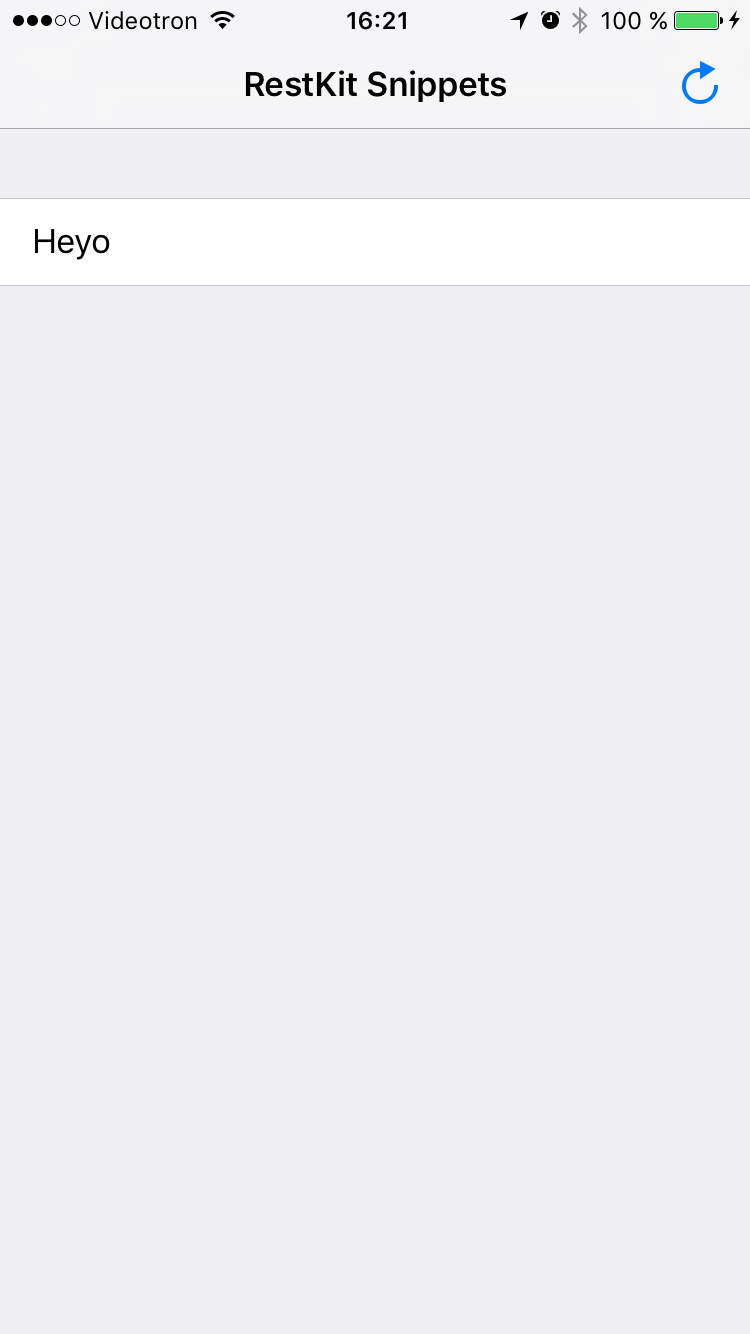
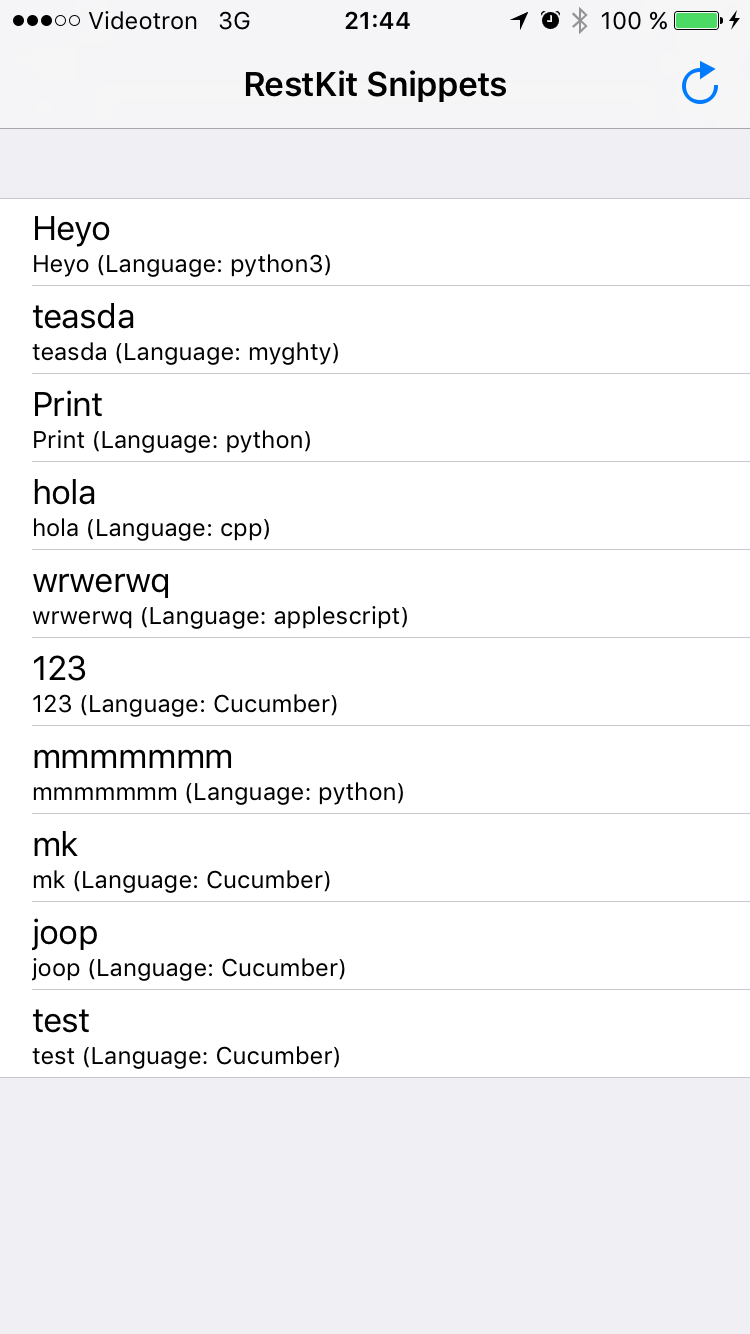
:rocket: Multiple items mapped to table view

diff --git a/RKSnippet/AppDelegate.m b/RKSnippet/AppDelegate.m
@@ -17,36 +17,54 @@
 {
     RKLogConfigureByName("RestKit/Network*", RKLogLevelTrace);
     RKLogConfigureByName("RestKit/ObjectMapping", RKLogLevelTrace);
-
+    
     //let AFNetworking manage the activity indicator
     [AFRKNetworkActivityIndicatorManager sharedManager].enabled = YES;
-
+    
     // Initialize HTTPClient
     NSURL *baseURL = [NSURL URLWithString:@"https://restframework.herokuapp.com"];
     AFRKHTTPClient* client = [[AFRKHTTPClient alloc] initWithBaseURL:baseURL];
-
+    
     //we want to work with JSON-Data
     [client setDefaultHeader:@"Accept" value:RKMIMETypeJSON];
-
+    
     // Initialize RestKit
     RKObjectManager *objectManager = [[RKObjectManager alloc] initWithHTTPClient:client];
-
+    
     RKObjectMapping *snippetMapping = [RKObjectMapping mappingForClass:[RKSnippet class]];
-    [snippetMapping addAttributeMappingsFromDictionary:@{
-                                                         @"url" : @"url",
-                                                         @"highlight" : @"highlight",
-                                                         @"owner" : @"owner",
-                                                         @"title" : @"title",
-                                                         @"code" : @"code",
-                                                         @"linenos" : @"linenos",
-                                                         @"language" : @"language",
-                                                         @"style" : @"style",
-                                                         }];
-
+    [snippetMapping addAttributeMappingsFromArray:
+     @[
+       @"url",
+       @"highlight",
+       @"owner",
+       @"title",
+       @"code",
+       @"linenos",
+       @"language",
+       @"style",
+       ]];
+    
     // Register our mappings with the provider using a response descriptor
-    RKResponseDescriptor *responseDescriptor = [RKResponseDescriptor responseDescriptorWithMapping:snippetMapping method:RKRequestMethodGET pathPattern:@"/snippets/:id/" keyPath:nil statusCodes:[NSIndexSet indexSetWithIndex:200]];
-    [objectManager addResponseDescriptor:responseDescriptor];
+    RKResponseDescriptor *listResponseDescriptor = [RKResponseDescriptor
+                                                responseDescriptorWithMapping:snippetMapping
+                                                method:RKRequestMethodGET
+                                                pathPattern:@"/snippets/"
+                                                keyPath:@"results"
+                                                statusCodes:RKStatusCodeIndexSetForClass(RKStatusCodeClassSuccessful)
+                                                ];
 
+    [objectManager addResponseDescriptor:listResponseDescriptor];
+    
+    RKResponseDescriptor *itemResponseDescriptor = [RKResponseDescriptor
+                                                    responseDescriptorWithMapping:snippetMapping
+                                                    method:RKRequestMethodAny
+                                                    pathPattern:@"/snippets/:id"
+                                                    keyPath:nil
+                                                    statusCodes:RKStatusCodeIndexSetForClass(RKStatusCodeClassSuccessful)
+                                                    ];
+    
+    [objectManager addResponseDescriptor:itemResponseDescriptor];
+    
     return YES;
 }
 

diff --git a/RKSnippet/RKSnippetViewController.m b/RKSnippet/RKSnippetViewController.m
@@ -1,6 +1,7 @@
 #import <Foundation/Foundation.h>
 #import "RKSnippetViewController.h"
 #import "RKSnippet.h"
+#import "RKLog.h"
 
 @interface RKSnippetViewController (Private)
 - (void)loadData;
@@ -8,17 +9,27 @@
 
 @implementation RKSnippetViewController
 
-- (void)loadSnippet
+- (void)loadSnippets
 {
+    
+#ifdef DEBUG
+    RKLogConfigureByName("RestKit", RKLogLevelTrace);
+    RKLogConfigureByName("RestKit/ObjectMapping", RKLogLevelTrace);
+    RKLogConfigureByName("RestKit/Network", RKLogLevelTrace);
+    RKLogConfigureByName("RestKit/Network/Queue", RKLogLevelTrace);
+#endif
+    
     // Load the object model via RestKit
     RKObjectManager *objectManager = [RKObjectManager sharedManager];
-
-    [objectManager getObjectsAtPath:@"/snippets/2506/"
+    
+    [objectManager getObjectsAtPath:@"/snippets/"
                          parameters:nil
                             success:^(RKObjectRequestOperation *operation, RKMappingResult *mappingResult) {
-                                NSArray* snippets = [mappingResult array];
+                                NSArray *snippets = [mappingResult array];
                                 NSLog(@"Loaded snippets: %@", snippets);
+                                
                                 _snippets = snippets;
+                                
                                 if(self.isViewLoaded)
                                     [self._tableView reloadData];
                             }
@@ -36,15 +47,15 @@
 - (void)loadView
 {
     [super loadView];
-
+    
     // Adds refresh button on top right
     self.title = @"RestKit Snippets";
     self.navigationItem.rightBarButtonItem = [[UIBarButtonItem alloc]
                                               initWithBarButtonSystemItem:UIBarButtonSystemItemRefresh
                                               target:self
-                                              action:@selector(loadSnippet)];
-
-    [self loadSnippet];
+                                              action:@selector(loadSnippets)];
+    
+    [self loadSnippets];
 }
 
 
@@ -57,17 +68,16 @@
 
 - (UITableViewCell *)tableView:(UITableView *)tableView cellForRowAtIndexPath:(NSIndexPath *)indexPath
 {
-    static NSString *tableIdentifier = @"SimpleTableItem";
+    NSString *reuseIdentifier = @"Snippet";
+    UITableViewCell *cell = [tableView dequeueReusableCellWithIdentifier:reuseIdentifier];
     
-    UITableViewCell *cell = [tableView dequeueReusableCellWithIdentifier:tableIdentifier];
-    
-    if (cell == nil) {
-        cell = [[UITableViewCell alloc] initWithStyle:UITableViewCellStyleDefault reuseIdentifier:tableIdentifier];
+    if (nil == cell) {
+        cell = [[UITableViewCell alloc] initWithStyle:UITableViewCellStyleSubtitle reuseIdentifier:reuseIdentifier];
     }
     
     RKSnippet* snippet = [_snippets objectAtIndex:indexPath.row];
-    cell.textLabel.text = snippet.title;
-    cell.detailTextLabel.text = snippet.description;
+    cell.textLabel.text = [snippet title];
+    cell.detailTextLabel.text = [snippet description];
     return cell;
 }
 

diff --git a/ReadMe.md b/ReadMe.md
@@ -8,9 +8,9 @@ This project uses [Restkit](https://github.com/RestKit/RestKit) on top of a [dja
 
 ## Todo
 
-* Fetch all snippets (1st page)
-* Add pagination
-* Add a view to visit a single snippet
+- [x] Fetch all snippets (1st page)
+- [ ] Add pagination support
+- [ ] Add a view to visit a single snippet
 
 ## Contributing
 
